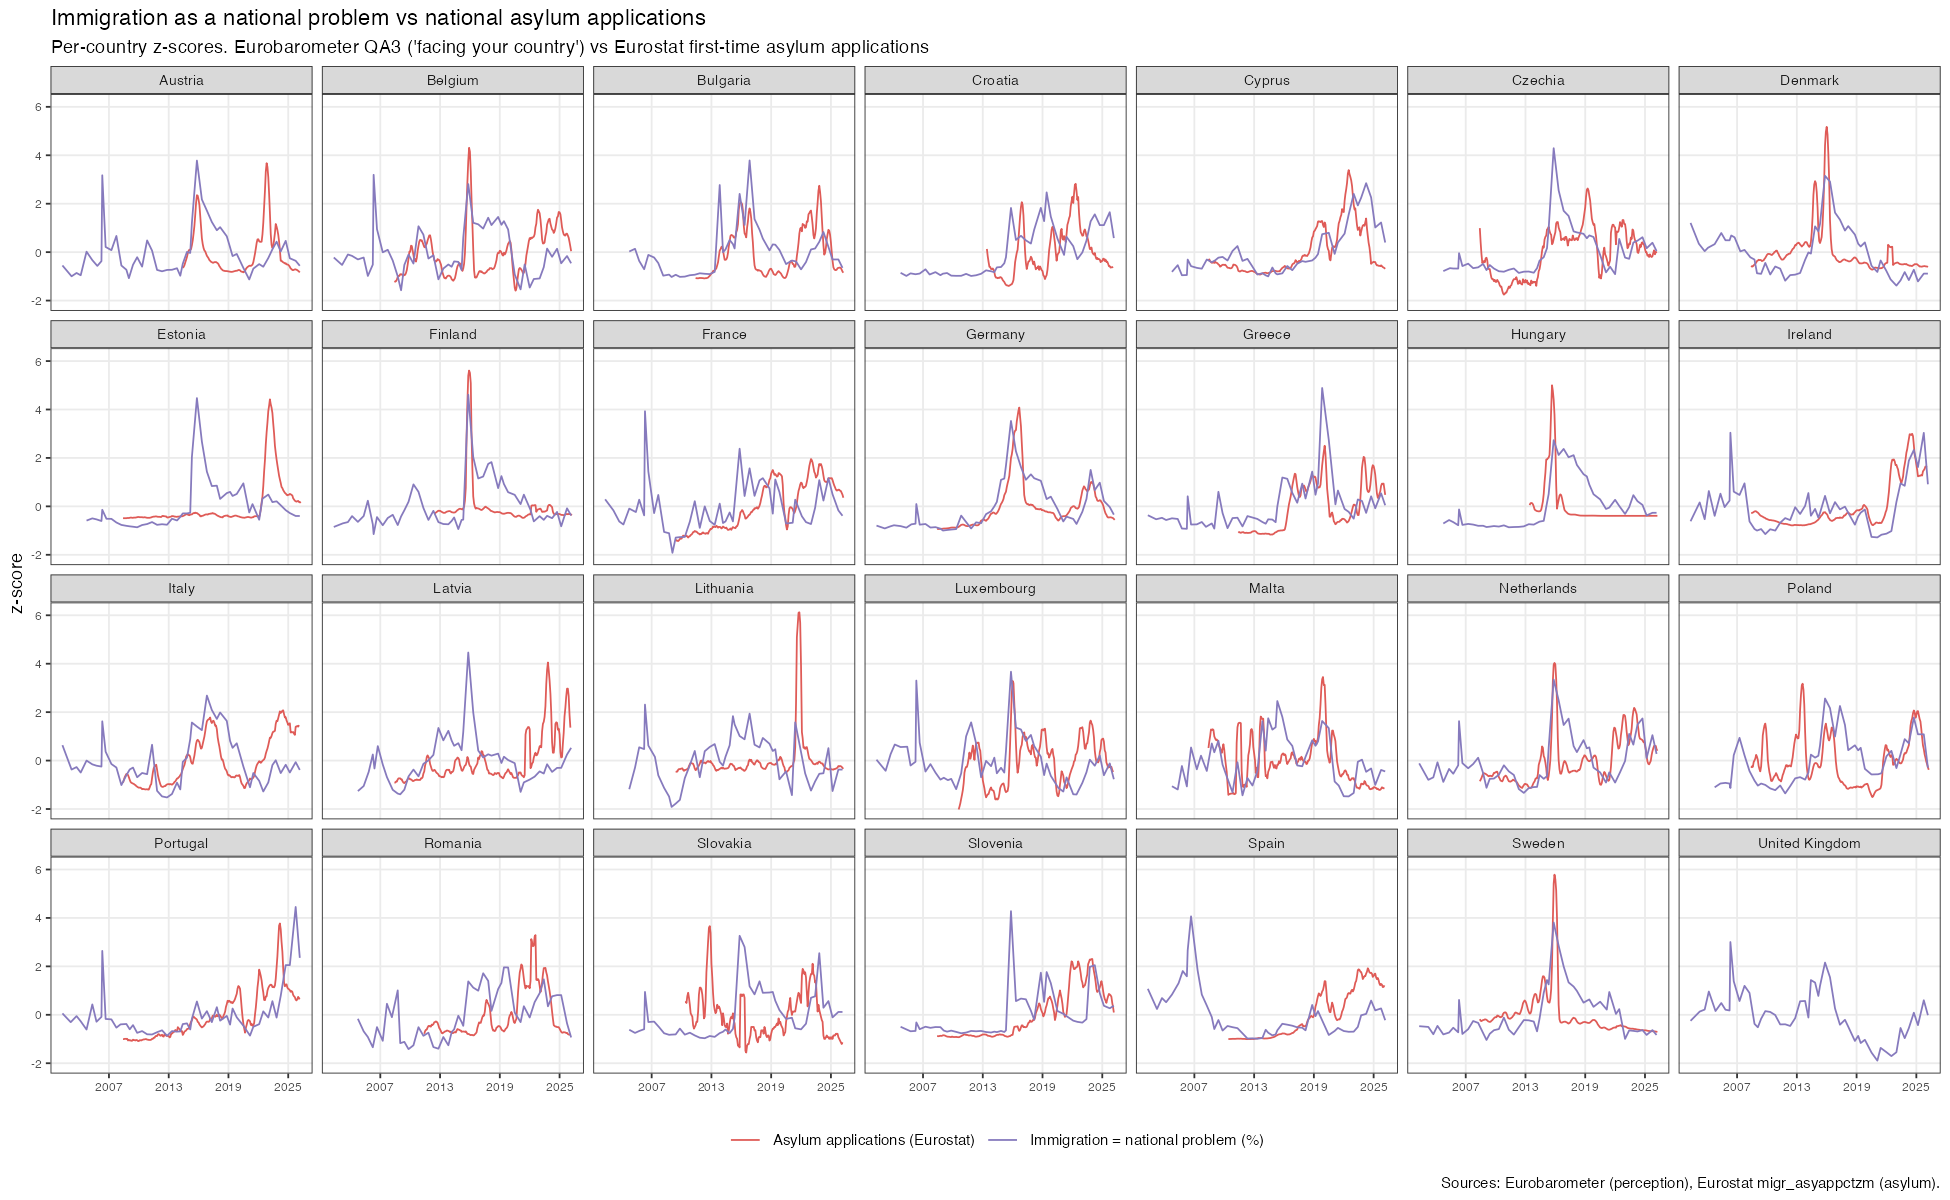
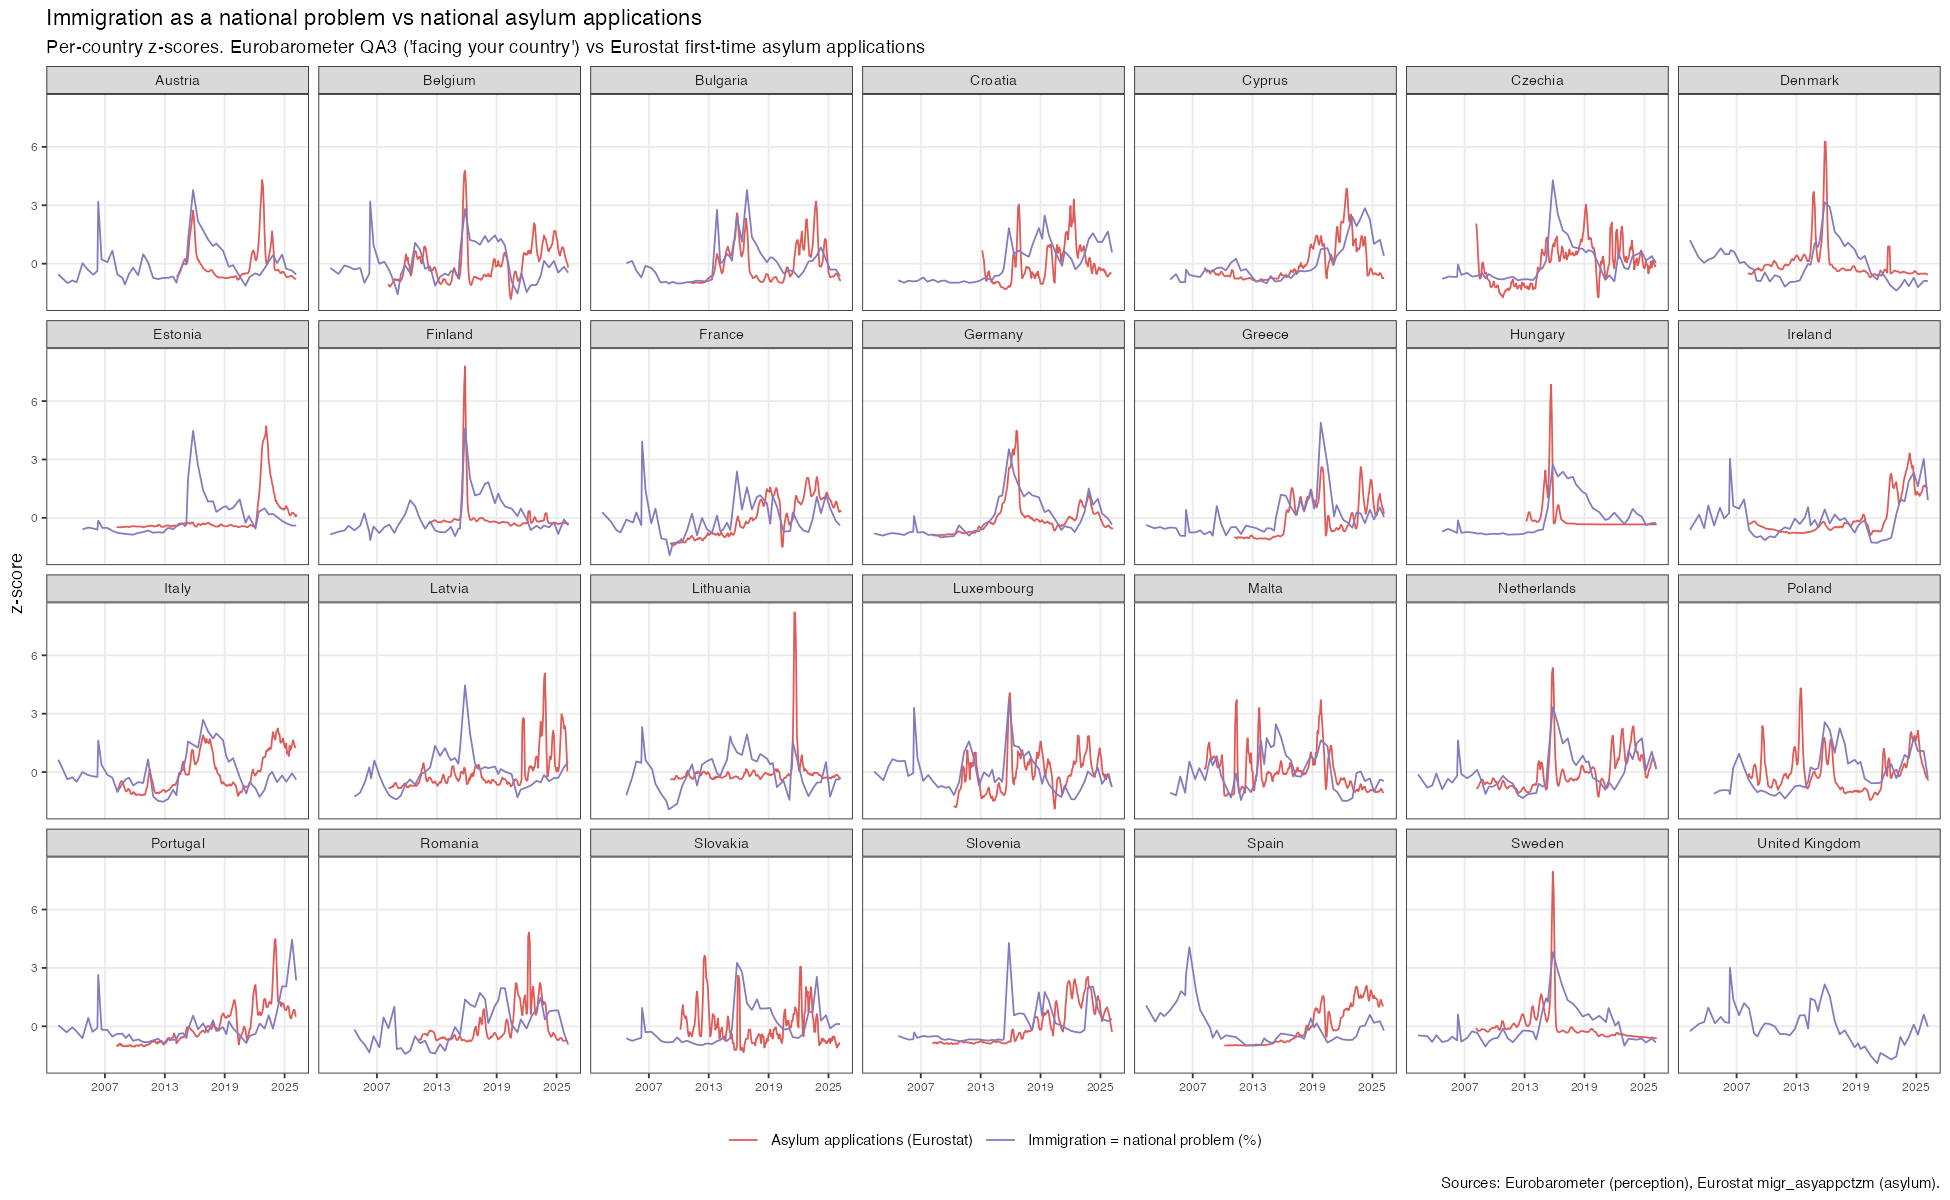
Trailing 3-month smoothing + East/West asylum-salience split
Switch asylum smoothing to trailing 3-month. Add an East vs West figure pooling
respondents by region (eu27-weighted) for immigration-as-EU-problem salience
against regional asylum totals: West tracks flows (r~0.6), CEE decouples (r~0.2).

diff --git a/README.md b/README.md
@@ -23,6 +23,13 @@ tracked asylum applications closely during the 2015–16 crisis, then diverged
 
 ![Immigration as an EU problem vs total EU asylum applications](output/immigration_eu_vs_total_asylum.png)
 
+The coupling also splits sharply East vs West: in **Western Europe** concern tracks
+the asylum flows the region actually receives (r ≈ 0.6), while in **Central &
+Eastern Europe** a brief 2015 transit spike gave way to lasting concern that is
+largely decoupled from local arrivals (r ≈ 0.2).
+
+![East vs West](output/immigration_eastwest_vs_asylum.png)
+
 ## What it produces
 
 | # | Deliverable | Stage |